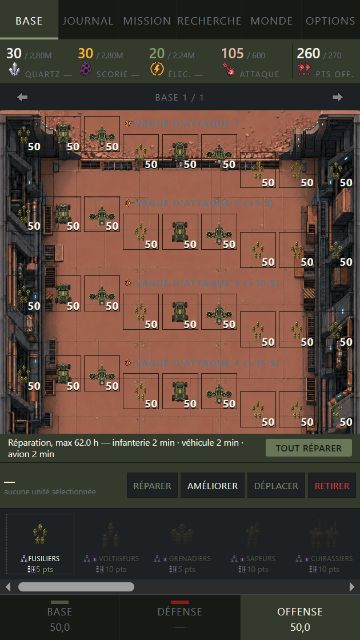
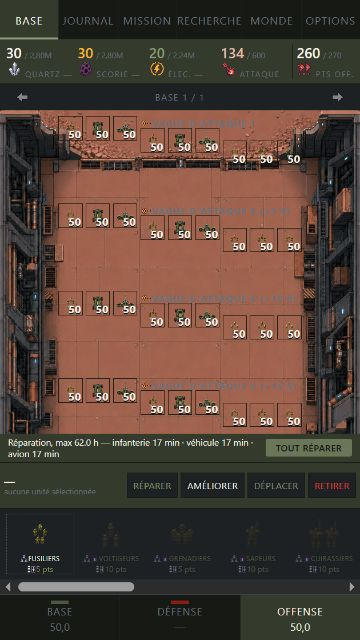
Cadre les vagues dans la zone orange

diff --git a/rapports/maquette-quinconce-360.html b/rapports/maquette-quinconce-360.html
@@ -2,9 +2,9 @@
 <html lang="fr"><meta charset="utf-8"><meta name="viewport" content="width=360,initial-scale=1">
 <title>Maquette quinconce 360 px</title>
 <style>
-*{box-sizing:border-box}html,body{margin:0;width:360px;min-height:450px;background:#11140f;color:#f5f3e8;font-family:system-ui,sans-serif}body{padding:10px 6px}.entete{margin-bottom:8px;padding:8px;background:#343a2c;border:1px solid #4e5742}.entete b{font-size:13px;letter-spacing:.12em}.entete p{margin:4px 0 0;color:#aab38e;font-size:10px}.vague{position:relative;margin:0 0 5px}.vague h2{position:absolute;z-index:1;left:34%;top:1px;margin:0;font-size:9px;letter-spacing:.1em;color:#aab38e}.rangee{display:grid;grid-template-columns:repeat(9,minmax(0,1fr));grid-template-rows:repeat(3,auto);column-gap:3px;row-gap:0;padding-bottom:5.2%;width:100%}.case{position:relative;aspect-ratio:1;margin-bottom:-50%;overflow:hidden;border:1px solid #4e5742;background:#252a22}.sprite{position:absolute;left:50%;top:50%;width:96%;height:96%;transform:translate(-50%,-50%);image-rendering:pixelated}.sprite img{position:absolute;inset:0;width:100%;height:100%;object-fit:contain;image-rendering:pixelated}.niveau{position:absolute;z-index:2;right:1px;bottom:0;color:#fff4bb;font:bold 9px/10px system-ui;text-shadow:0 1px #161914}.mesure{margin-top:7px;padding:7px;background:#1e2124;border-left:3px solid #f5b636;color:#cdd4ba;font-size:10px;line-height:1.3}.mesure b{color:#f5b636}
+*{box-sizing:border-box}html,body{margin:0;width:360px;min-height:450px;background:#11140f;color:#f5f3e8;font-family:system-ui,sans-serif}body{padding:10px 6px}.entete{margin-bottom:8px;padding:8px;background:#343a2c;border:1px solid #4e5742}.entete b{font-size:13px;letter-spacing:.12em}.entete p{margin:4px 0 0;color:#aab38e;font-size:10px}.vague{position:relative;width:70%;margin:0 auto 5px}.vague h2{position:absolute;z-index:1;left:34%;top:1px;margin:0;font-size:9px;letter-spacing:.1em;color:#aab38e}.rangee{display:grid;grid-template-columns:repeat(9,minmax(0,1fr));grid-template-rows:repeat(3,auto);column-gap:3px;row-gap:0;padding-bottom:5.2%;width:100%}.case{position:relative;aspect-ratio:1;margin-bottom:-50%;overflow:hidden;border:1px solid #4e5742;background:#252a22}.sprite{position:absolute;left:50%;top:50%;width:96%;height:96%;transform:translate(-50%,-50%);image-rendering:pixelated}.sprite img{position:absolute;inset:0;width:100%;height:100%;object-fit:contain;image-rendering:pixelated}.niveau{position:absolute;z-index:2;right:1px;bottom:0;color:#fff4bb;font:bold 9px/10px system-ui;text-shadow:0 1px #161914}.mesure{margin-top:7px;padding:7px;background:#1e2124;border-left:3px solid #f5b636;color:#cdd4ba;font-size:10px;line-height:1.3}.mesure b{color:#f5b636}
 </style>
-<body><div class="entete"><b>OFFENSE · QUINCONCE</b><p>Android 360 px · 4 vagues × 9 · 3 en haut, 3 au centre, 3 en bas</p></div><main id="vagues"></main><div class="mesure"><b>96 % maximum</b> — partie utile 80 % × grossissement 1,2. Les neuf colonnes restent celles du combat ; seule leur hauteur d’affichage change.</div>
+<body><div class="entete"><b>OFFENSE · QUINCONCE</b><p>Android 360 px · 4 vagues × 9 · 3 en haut, 3 au centre, 3 en bas</p></div><main id="vagues"></main><div class="mesure"><b>70 % centraux · 96 % maximum</b> — les unités restent entre les murs. Les neuf colonnes restent celles du combat ; seule leur hauteur d’affichage change.</div>
 <script>
 const racine='../art/sprites/';
 const lourds=[

diff --git a/test/pictogramme.test.js b/test/pictogramme.test.js
@@ -446,7 +446,7 @@ test('PIC T6 — la famille neuve n\'a déplacé aucun des atlas d\'avant', () =
 // PIC T7 — le poids reste sous la borne, et la marge est écrite en clair
 // ---------------------------------------------------------------------------
 
-test('PIC T7 — le livrable pèse 9 391 301 octets, la marge sur la borne T10 est de 2,17 %', () => {
+test('PIC T7 — le livrable pèse 9 391 340 octets, la marge sur la borne T10 est de 2,17 %', () => {
   // ⚠⚠ DEUX MESURES, ET LA SECONDE EST CELLE QUI COMPTE. Le lot PICTOGRAMMES
   // avait produit les sprites SANS les câbler : le livrable n'avait alors pris
   // que **+911 octets**, tous en JavaScript, et le compte de `data:` n'avait pas
@@ -822,12 +822,12 @@ test('PIC T7 — le livrable pèse 9 391 301 octets, la marge sur la borne T10 e
   // MESURE, pas du patch.
   // ⚠⚠ RÉANCRÉ AU LOT RAID-REPRISE-ET-FORMATIONS, 15/09. Le livrable de `main`
   // pesait 9 386 714 octets ; l'horloge persistante, les panneaux du simulateur,
-  // le placement séparé et le quinconce validé ajoutent 4 587 octets, sans image
+  // le placement séparé et le quinconce validé ajoutent 4 626 octets, sans image
   // ni son de production nouveau.
   const BORNE = 9_600_000;           // T10 de `banc.test.js`, relevée au lot ART-90
-  const MESURE = 9_391_301;          // mesuré en version 0.99.66 · build 168
-  const MARGE = BORNE - MESURE;      // 208 699 octets
-  assert.equal(MARGE, 208_699);
+  const MESURE = 9_391_340;          // mesuré en version 0.99.67 · build 169
+  const MARGE = BORNE - MESURE;      // 208 660 octets
+  assert.equal(MARGE, 208_660);
   assert.notEqual(MARGE, 215_225,
     'la marge est revenue à l\'ancre du lot REJEU : le réancrage a été défait');
   assert.notEqual(MARGE, 214_592,

diff --git a/src/index.src.html b/src/index.src.html
@@ -2125,13 +2125,17 @@
     background-size: cover; background-position: center top; background-repeat: no-repeat;
   }
   #offense-vagues::-webkit-scrollbar { display: none; }
-  #ecran-offense .vague { flex: 0 0 auto; position: relative; }
+  #ecran-offense .vague {
+    flex: 0 0 auto; position: relative; width: 70%; margin-inline: auto;
+  }
   #ecran-offense .vague h2 {
     position: absolute; z-index: 1; top: 1px; left: 34%; margin: 0;
     font-size: 9px; letter-spacing: 0.1em; text-transform: uppercase; color: #68727E;
   }
   /* Les neuf emplacements d'une vague se plient comme sur la capture validée
      à 360 px : trois en haut à gauche, trois au centre, trois en bas à droite.
+     La vague occupe les 70 % centraux du bassin afin de rester entièrement sur
+     le rectangle orange, entre les deux murs peints dans le fond.
      Ils restent sur une grille de neuf colonnes : aucune translation ne sépare
      le dessin de la zone touchée. `ui/offense.js` fournit le nombre de colonnes
      depuis NB_COLONNES ainsi que l'étage de chaque case.

diff --git a/rapports/rendre-maquette-quinconce.py b/rapports/rendre-maquette-quinconce.py
@@ -21,27 +21,28 @@ sprites = [
 ]
 sprite_root = RACINE / "art" / "sprites"
 gap = 3
-row_x = 6
-cell_w = (W - 2 * row_x - 8 * gap) // 9
+row_x = 58
+row_w = 244
+cell_w = (row_w - 8 * gap) / 9
 
 for vague in range(4):
     top = 65 + vague * 80
     d.text((124, top + 1), f"VAGUE D'ATTAQUE {vague + 1}", fill="#aab38e", font=font)
     for col in range(9):
-        x = row_x + col * (cell_w + gap)
-        y = top + (col // 3) * 18
-        d.rectangle((x, y, x + cell_w - 1, y + cell_w - 1), fill="#252a22", outline="#4e5742")
+        x = round(row_x + col * (cell_w + gap))
+        y = round(top + (col // 3) * cell_w / 2)
+        d.rectangle((x, y, round(x + cell_w - 1), round(y + cell_w - 1)), fill="#252a22", outline="#4e5742")
         chassis, tourelle = sprites[(col + vague + 1) % len(sprites)]
         layers = [chassis] + ([tourelle] if tourelle else [])
-        taille = int(cell_w * .96)
+        taille = round(cell_w * .96)
         for layer in layers:
             part = Image.open(sprite_root / layer).convert("RGBA")
             part.thumbnail((taille, taille), Image.Resampling.NEAREST)
-            px = x + (cell_w - part.width) // 2
-            py = y + (cell_w - part.height) // 2
+            px = round(x + (cell_w - part.width) / 2)
+            py = round(y + (cell_w - part.height) / 2)
             img.paste(part, (px, py), part)
         niv = str(40 + ((col + vague + 1) % 11))
-        d.text((x + cell_w - 12, y + cell_w - 10), niv, fill="#fff4bb", font=font,
+        d.text((round(x + cell_w - 12), round(y + cell_w - 10)), niv, fill="#fff4bb", font=font,
                stroke_width=1, stroke_fill="#161914")
 
 d.rectangle((6, 388, 354, 439), fill="#1e2124", outline="#f5b636", width=2)

diff --git a/RAPPORT-lotRAID-REPRISE-FORMATIONS.md b/RAPPORT-lotRAID-REPRISE-FORMATIONS.md
@@ -77,8 +77,10 @@ sprites les plus volumineux. `rapports/capture-quinconce-in-game-360.png` est
 une capture du vrai `dist/index.html`, avec une sauvegarde valide de 36 unités.
 
 `src/ui/offense.js` conserve les neuf numéros de colonne du combat et ne change
-que `grid-row`. À 360 px, les 348 px utiles moins huit écarts de 3 px donnent
-neuf cases carrées de 36 px. Les trois pistes se resserrent d'une demi-case ;
+que `grid-row`. À 360 px, chaque vague occupe les 70 % centraux des 348 px
+utiles : ses bords vont de 58,20 à 301,79 px et restent dans le rectangle orange,
+entre les deux murs. Après les huit écarts de 3 px, les neuf cases mesurent
+24,39 px. Les trois pistes se resserrent d'une demi-case ;
 leurs cases ne se recouvrent pas puisqu'elles occupent des colonnes disjointes.
 La pièce offensive est bornée à 96 %
 (`80 % × 1,2`) ; aucun sprite ni niveau n'est rogné. Cette modification est
@@ -86,7 +88,7 @@ strictement visuelle et ne touche ni l'armée sérialisée, ni l'ordre des vague
 ni l'équilibrage.
 
 Mesure Chromium in-game à 360 × 640 : le bassin fait 324 px de haut et son
-`scrollHeight` vaut également 324 px. Chacune des quatre vagues mesure 72,09 px,
+`scrollHeight` vaut également 324 px. Chacune des quatre vagues mesure 49,28 px,
 la dernière se termine à 427,50 px avant le bord bas du bassin à 433,50 px. Les
 quatre titres, les 36 sprites et les 36 niveaux sont donc visibles ensemble.
 
@@ -115,11 +117,12 @@ Test ajouté : `test/formation-ouvrage.test.js`. Aucun test n'est supprimé.
 
 Le test de quinconce d'`offense.test.js` est remplacé par une garde DOM/CSS qui
 vérifie les quatre vagues, leurs 36 cases, le placement 3 + 3 + 3, la correspondance
-des colonnes de pointage, la largeur de 36 px et la borne de 96 %. Aucun fichier
+des colonnes de pointage, les bornes horizontales 58,2–301,8 px et la borne de
+96 %. Aucun fichier
 de test n'est ajouté ou supprimé par cette validation.
 
 Sous Node 22, la suite complète rend **1 627 déclarés · 1 626 pass · 0 fail ·
-1 skipped** (`LIMITE T8`). Le build produit `dist/index.html`, **9 391 301
-octets**, version **0.99.66** · build **168**, soit **4 587 octets** de plus que
-`main` à `1aca789` et une marge de **208 699 octets, 2,17 %** sous la borne T10.
+1 skipped** (`LIMITE T8`). Le build produit `dist/index.html`, **9 391 340
+octets**, version **0.99.67** · build **169**, soit **4 626 octets** de plus que
+`main` à `1aca789` et une marge de **208 660 octets, 2,17 %** sous la borne T10.
 Le lot n'ajoute ni image ni son de production.

diff --git a/CLAUDE.md b/CLAUDE.md
@@ -7,7 +7,7 @@ pour le contenu du jeu, voir la hiérarchie ci-dessous.
 distribué comme un fichier HTML autonome, avec enveloppe Android WebView et
 auto-update par GitHub Pages. Paquet : `fr.freredoc.foyerzero`.
 
-Dernière révision : **15/09/2026**, version 0.99.66 · build 168.
+Dernière révision : **15/09/2026**, version 0.99.67 · build 169.
 
 ---
 
@@ -55,11 +55,13 @@ composition. Le quinconce validé à 360 px plie chaque vague en trois groupes :
 trois unités en haut, trois au centre et trois en bas, en conservant les neuf
 colonnes de combat. Les pistes se recouvrent d'une demi-case entre des groupes
 aux colonnes disjointes ; les quatre vagues tiennent ainsi dans les 324 px du
-bassin à 360 × 640. La pièce offensive est bornée à 96 % de sa case.
+bassin à 360 × 640. Chaque vague occupe les 70 % centraux du bassin pour garder
+les unités dans le rectangle orange, entre les murs latéraux. La pièce offensive
+est bornée à 96 % de sa case.
 `npm test` rend **1627 pass / 0 fail** au sens de la garde de
 `documentation.test.js` — c'est le nombre déclaré ; sous Node 22, le verdict
 mesuré est **1626 pass · 0 fail · 1 skipped** (`LIMITE T8`). `npm run build`
-produit **9 391 301 octets**, version **0.99.66 · build 168**, soit **+4 587
+produit **9 391 340 octets**, version **0.99.67 · build 169**, soit **+4 626
 octets** sur `main` à `1aca789`. Détails, mesures et liste des tests dans
 `RAPPORT-lotRAID-REPRISE-FORMATIONS.md`.
 
